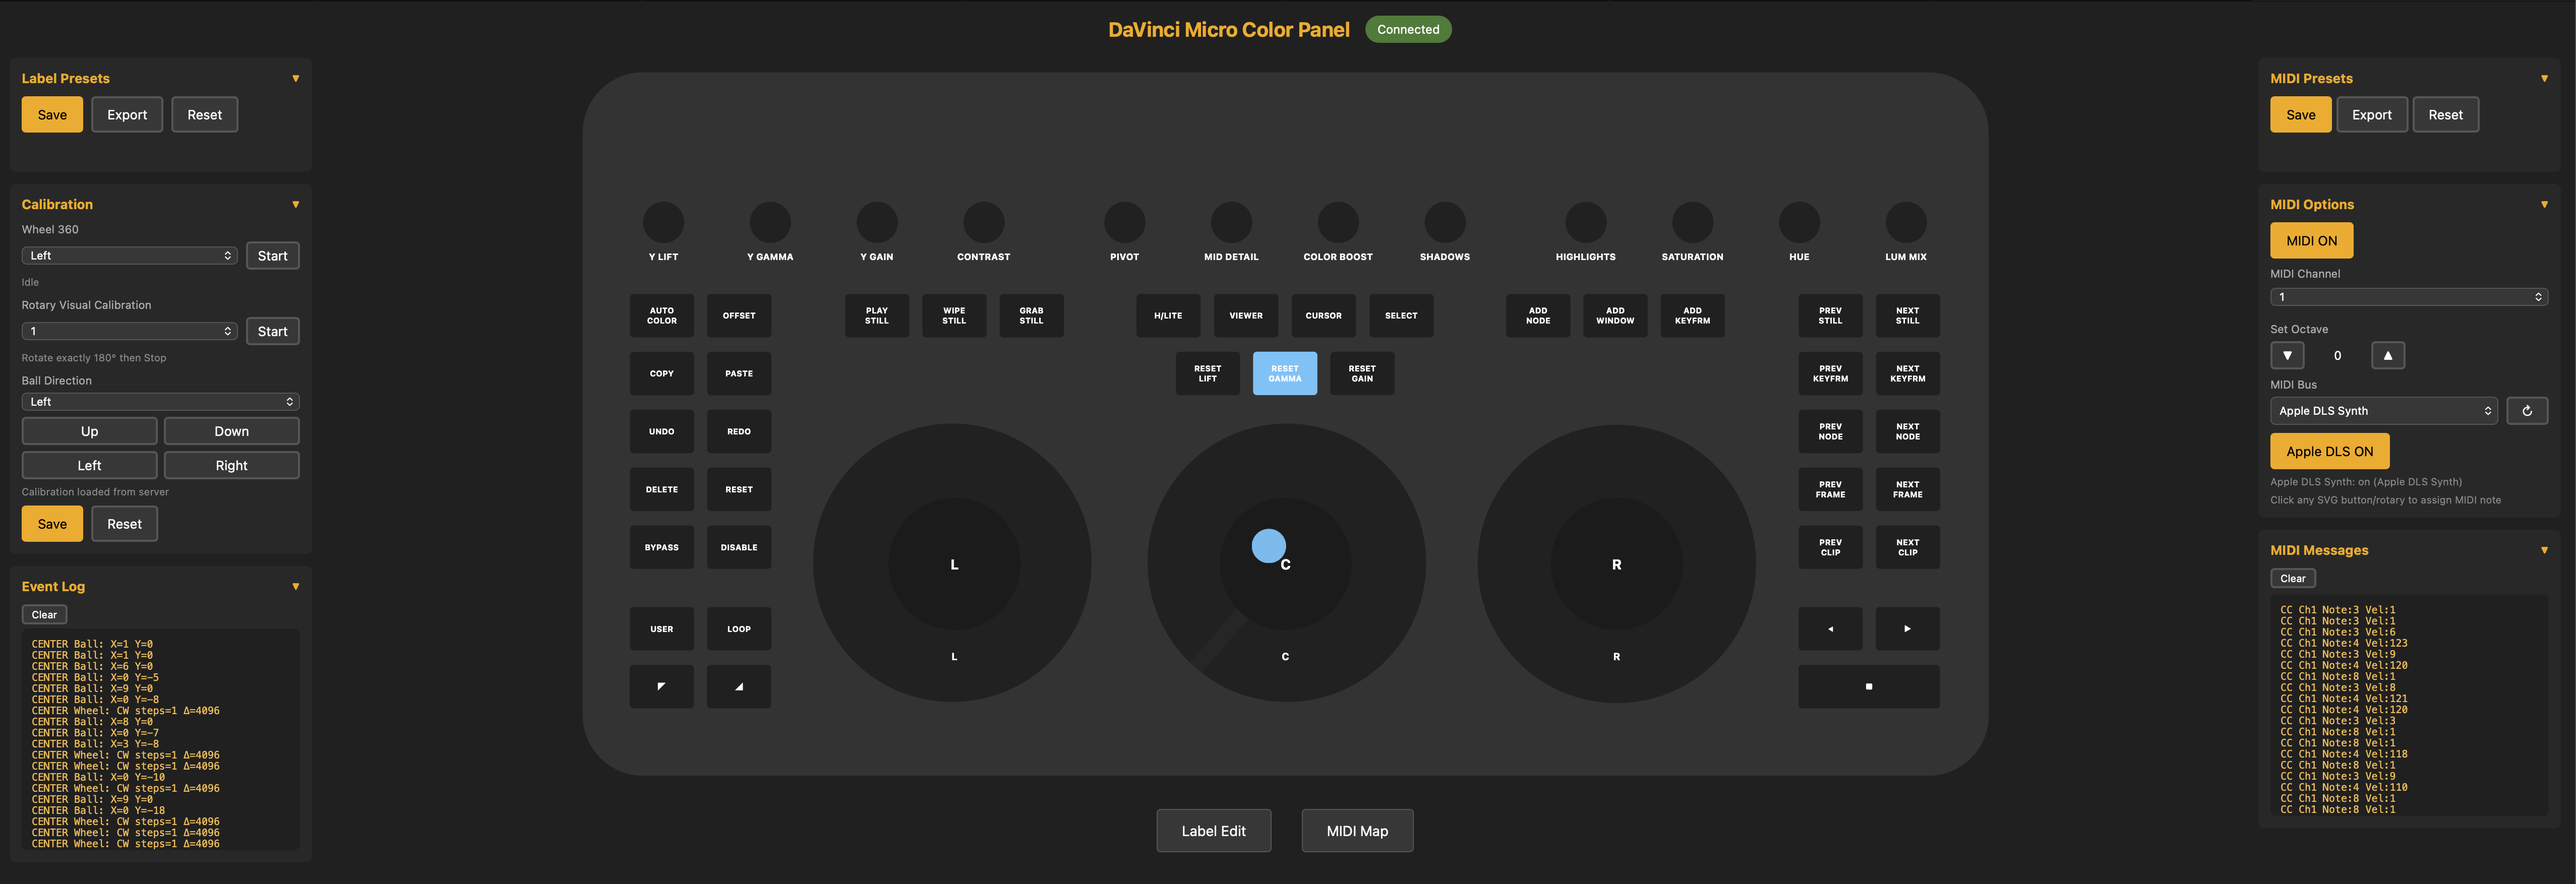
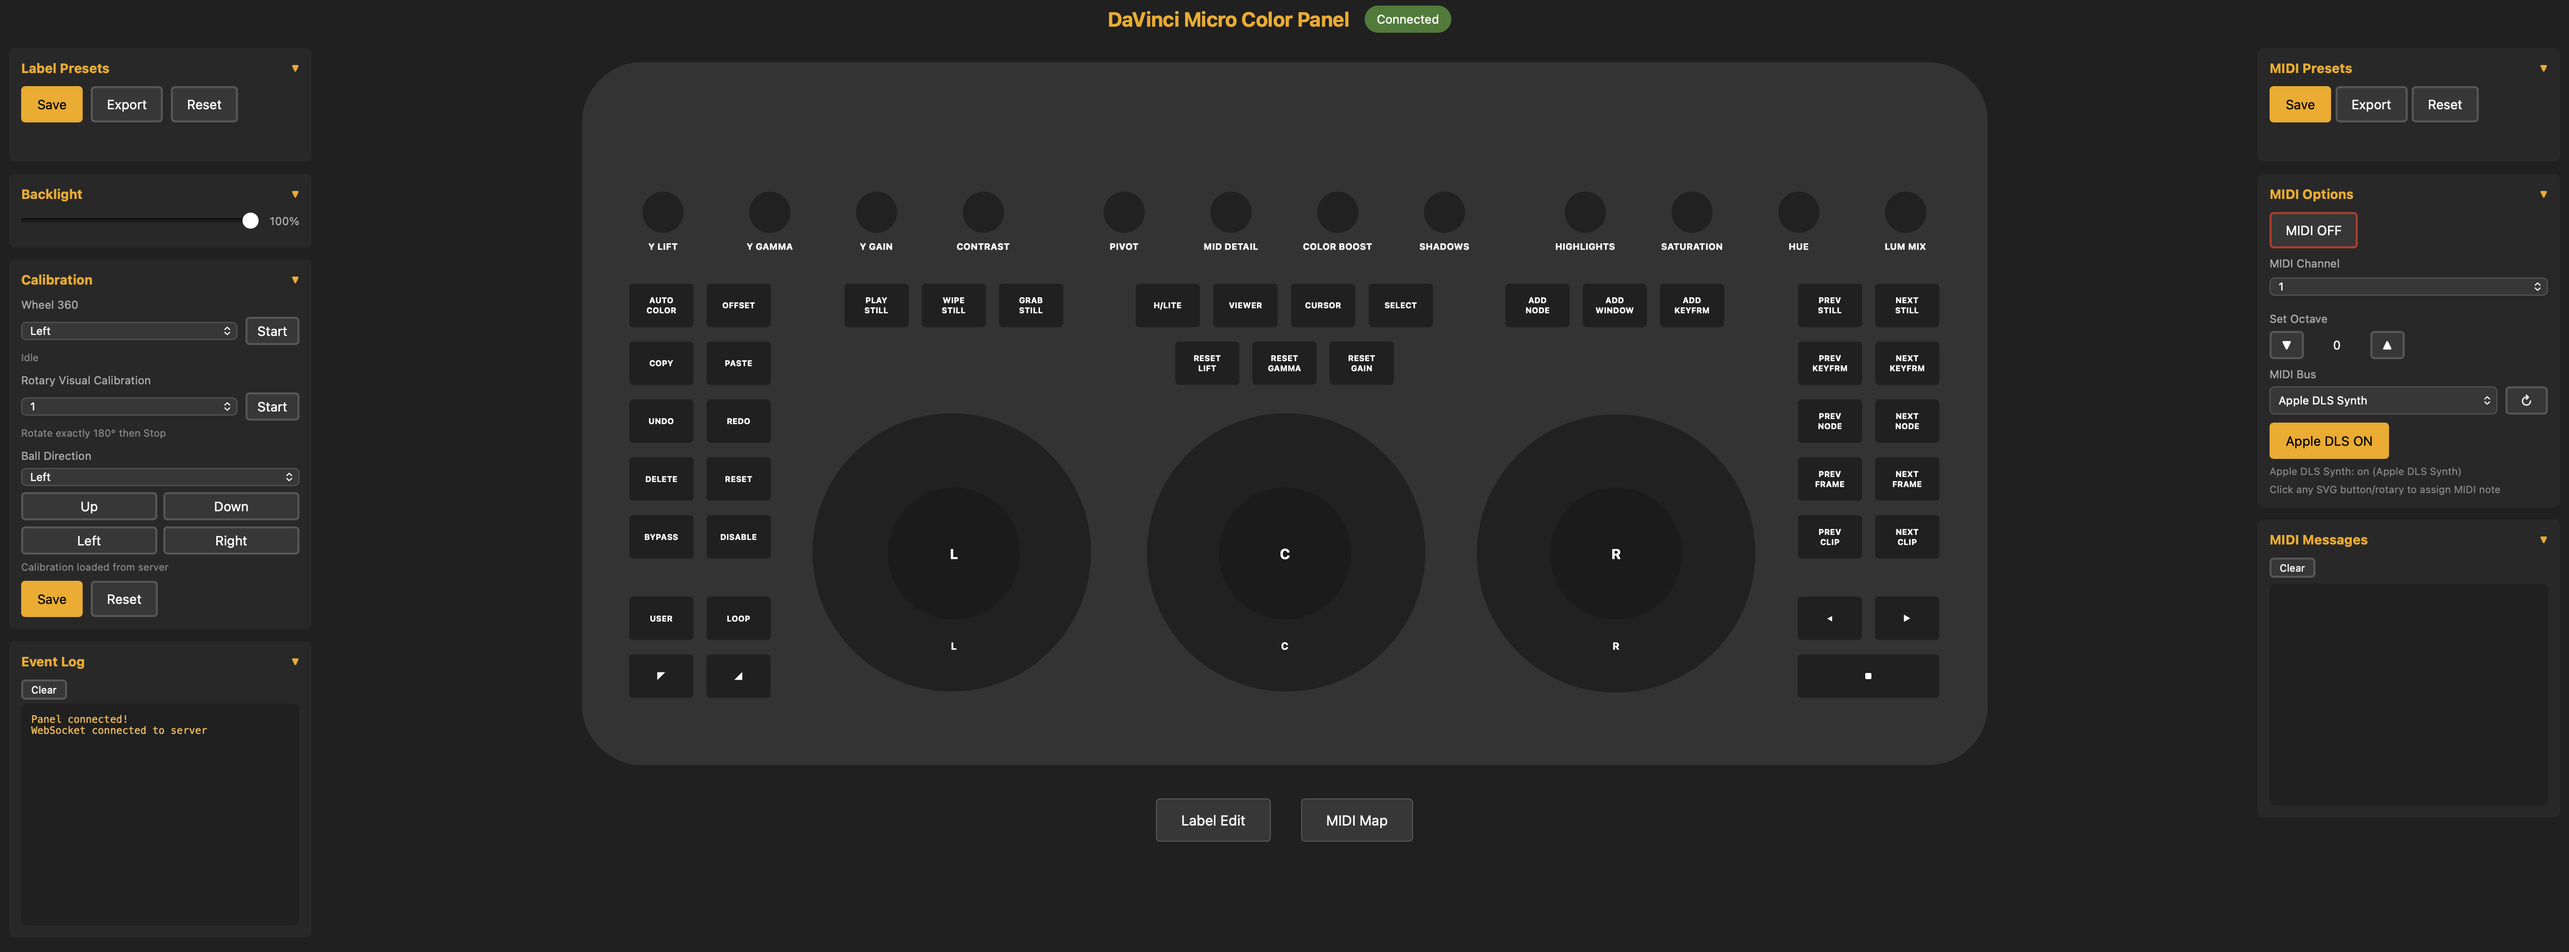
.

diff --git a/DaVinci Micro Color Panel - Editor.html b/DaVinci Micro Color Panel - Editor.html
@@ -299,6 +299,17 @@
                 </div>
             </div>
             <div class="panel-section">
+                <h3 onclick="togglePanel(this)">Backlight</h3>
+                <div class="panel-content">
+                <div style="display:flex;align-items:center;gap:8px;margin:6px 0;">
+                    <input type="range" id="backlightSlider" min="0" max="100" value="100"
+                        style="flex:1;accent-color:#fea701;"
+                        oninput="document.getElementById('backlightVal').textContent=this.value+'%'; ws.send(JSON.stringify({type:'setBacklight',value:parseInt(this.value)}))">
+                    <span id="backlightVal" style="font-size:11px;min-width:32px;text-align:right;color:#aaa;">100%</span>
+                </div>
+                </div>
+            </div>
+            <div class="panel-section">
                 <h3 onclick="togglePanel(this)">Calibration</h3>
                 <div class="panel-content">
                 <div class="section-subtitle">Wheel 360</div>
@@ -508,7 +519,8 @@
                     <button id="appleDlsToggle" onclick="toggleAppleDlsSynth()">Apple DLS OFF</button>
                 </div>
                 <div id="appleDlsStatus" class="status-note">Apple DLS Synth: off</div>
-                <div class="status-note">Click any SVG button/rotary to assign MIDI note</div>
+
+<div class="status-note">Click any SVG button/rotary to assign MIDI note</div>
                 </div>
             </div>
 
@@ -721,6 +733,12 @@
             }
             else if (data.type === 'midiDeviceChanged') {
                 log('MIDI device: ' + data.name);
+            }
+            else if (data.type === 'backlight') {
+                const slider = document.getElementById('backlightSlider');
+                const label = document.getElementById('backlightVal');
+                if (slider) slider.value = data.value;
+                if (label) label.textContent = data.value + '%';
             }
             else if (data.type === 'midiChannel') {
                 const ch = Number(data.value);
